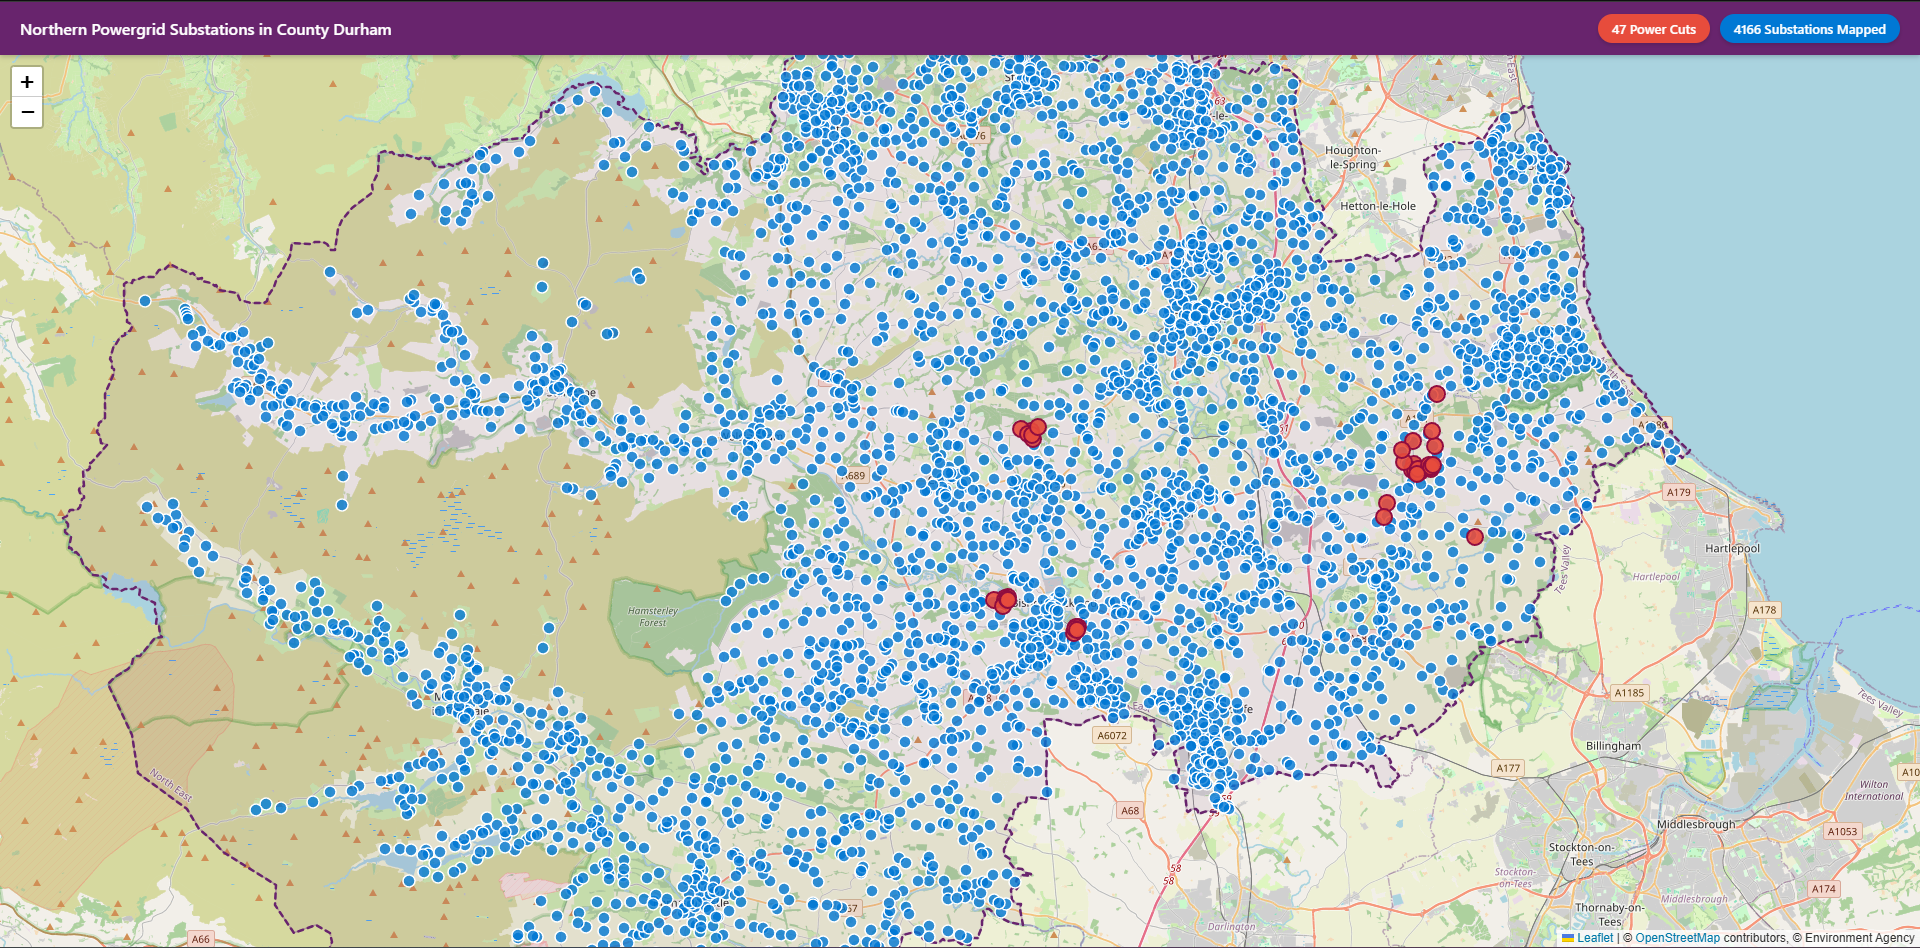
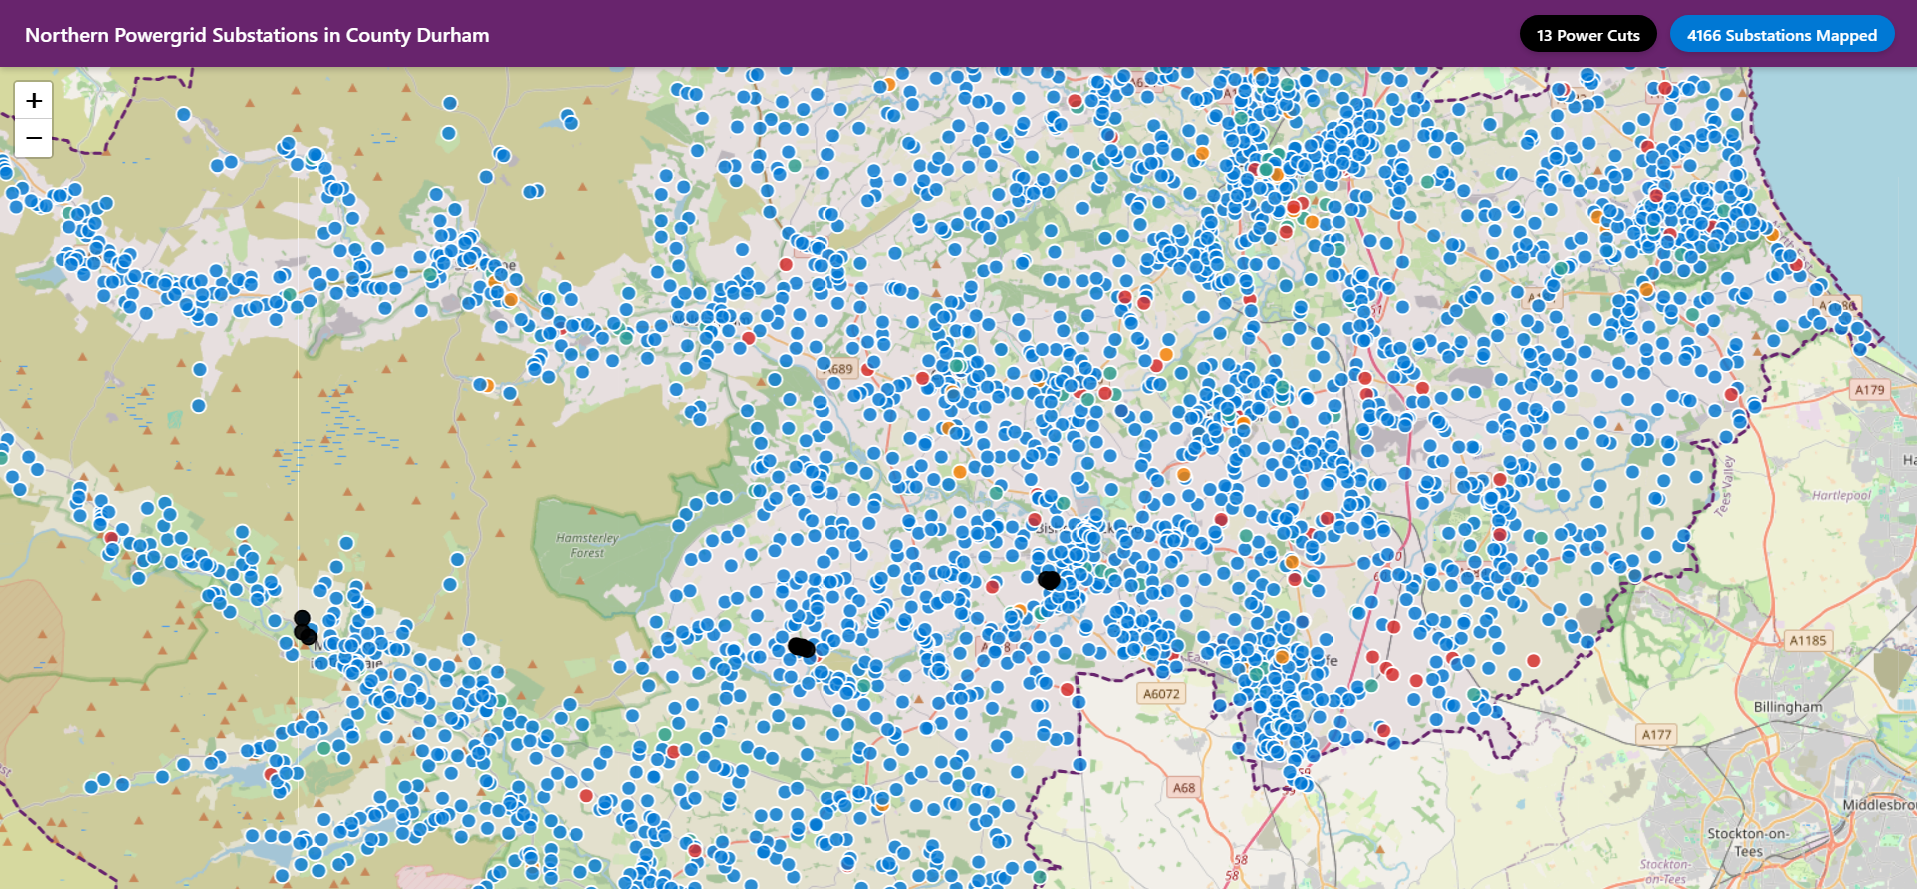
docs: update site screenshot
Updated README.md with new live site screenshot, and description of new data.

diff --git a/README.md b/README.md
@@ -41,7 +41,7 @@ data/
 ```
 
 - `substation_sites_list.geojson`: [Northern Power Grid Open Data](https://northernpowergrid.opendatasoft.com/explore/dataset/substation_sites_list/export/?disjunctive.dno_area)
-- `substation_sites_filtered.csv`: 
+- `substation_sites_filtered.csv`: Risk Levels Classified as High (red), Medium (orange), Low (Green), and Unclassified (Blue).
 - `county_durham.geojson`: [MapIt Durham County Council Area - ID 2223](https://mapit.mysociety.org/area/2223.geojson) <i>(renamed from `2223.geojson`)</i>
 - `powercut_archive.geojson`: Updated every 30 minutes by a GitHub Action that calls Northern Powergrid's [OpenDataSoft API](https://northernpowergrid.opendatasoft.com/explore/dataset/live-power-cuts-data/information/) and flood warnings from [the Environment Agency](https://environment.data.gov.uk/flood-monitoring/id/floods). Each run appends a new line, which is a timestamped GeoJSON snapshot.
 
